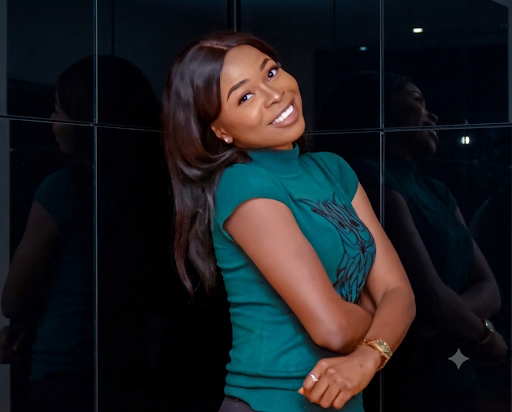
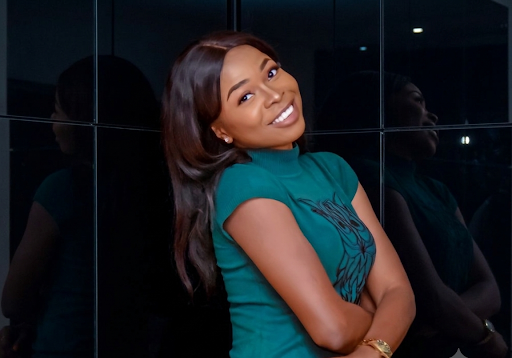
update

diff --git a/style.css b/style.css
@@ -140,7 +140,7 @@ body::before{
    HERO
 ========================= */
 
-.hero{
+.hero-blog{
   min-height:100vh;
   display:flex;
   align-items:center;
@@ -148,7 +148,7 @@ body::before{
   padding:120px 8% 80px;
 }
 
-.hero-container{
+.hero-container-blog{
   display:grid;
   grid-template-columns:1fr 1fr;
   align-items:center;
@@ -355,6 +355,144 @@ to{
     color:#d1d5db;
     line-height:1.8;
     margin-bottom:35px;
+}
+
+/* =========================
+   TABLET
+========================= */
+
+@media (max-width:991px){
+
+    .hero-container{
+        padding:0 6%;
+    }
+
+    .hero-content h1{
+        font-size:3.8rem;
+    }
+
+}
+
+
+
+/* =========================
+   MOBILE
+========================= */
+
+@media (max-width:768px){
+
+    .hero-container{
+        display:flex;
+        flex-direction:column;
+        justify-content:flex-start;
+        align-items:center;
+
+        height:auto;
+        min-height:100vh;
+
+        padding:80px 0 40px;
+    }
+
+    /* Image starts below navbar */
+
+    .hero-slider{
+        position:relative;
+        width:100%;
+        height:55vh;
+    }
+
+    .slide{
+        position:absolute;
+        inset:0;
+    }
+
+    .slide img{
+        object-fit:cover;
+        object-position:top center;
+    }
+
+    .overlay{
+        display:none;
+    }
+
+    /* Text below image */
+
+    .hero-content{
+        position:relative;
+        width:100%;
+        max-width:100%;
+
+        text-align:center;
+
+        padding:35px 25px 0;
+    }
+
+    .hero-content h1{
+        font-size:2.8rem;
+        line-height:1.15;
+        margin-bottom:15px;
+    }
+
+    .hero-content p{
+        font-size:1rem;
+        margin-bottom:25px;
+    }
+
+    .visit-btn{
+        display:inline-block;
+        width:220px;
+        margin:auto;
+    }
+
+}
+
+/* =========================
+   SMALL PHONES
+========================= */
+
+@media (max-width:480px){
+
+    .hero-slider{
+        height:45vh;
+    }
+
+    .hero-content{
+        padding:25px 20px 0;
+    }
+
+    .hero-content h1{
+        font-size:2.2rem;
+    }
+
+    .hero-content p{
+        font-size:.95rem;
+    }
+
+    .visit-btn{
+        width:100%;
+        max-width:220px;
+    }
+
+}
+
+/* =========================
+   VERY SMALL PHONES
+========================= */
+
+@media (max-width:360px){
+
+    .hero-slider{
+        height:40vh;
+    }
+
+    .hero-content h1{
+        font-size:1.9rem;
+    }
+
+    .hero-content p{
+        font-size:.9rem;
+    }
+
 }
 
 /* =========================
@@ -872,6 +1010,3 @@ footer{
   line-height:1.7;
 }
 
-.cta-btn{
-  background-color:#2c7652
-}

diff --git a/blog.html b/blog.html
@@ -12,6 +12,7 @@
 
  
   <!-- NAVBAR -->
+    <!-- NAVBAR -->
     <nav class="navbar">
      <div class="logo-wrap">
      <img src="./images/logo.png" alt="Logo" class="logo-img">
@@ -27,30 +28,23 @@
      
      <ul class="nav-links" id="navLinks">
       <li><a href="index.html">Home</a></li>
-      </ul>
+      
+</nav>
 
-  
-  </nav>
-  
- 
-<section class="hero">
-  <div class="hero-container">
+
+<section class="hero-blog">
+  <div class="hero-container-blog">
 
     <div class="hero-image">
       <img src="./images/mimi_web.png" alt="my Picture">
     </div>
 
     <div class="hero-text">
-    <h1>
-Mmesoma<br>
-<span class="highlight">Precious</span>
-</h1>
-
-<p>
-Educator, Software Engineer, Art.
-</p>
-    </div>
-
+      <h1> I'm <span>Mmesoma</span></h1>
+      <h2>Precious</h2>
+      <p>
+       Software Engineer, Artistic, Educator.
+      </p>
   </div>
 </section>
 